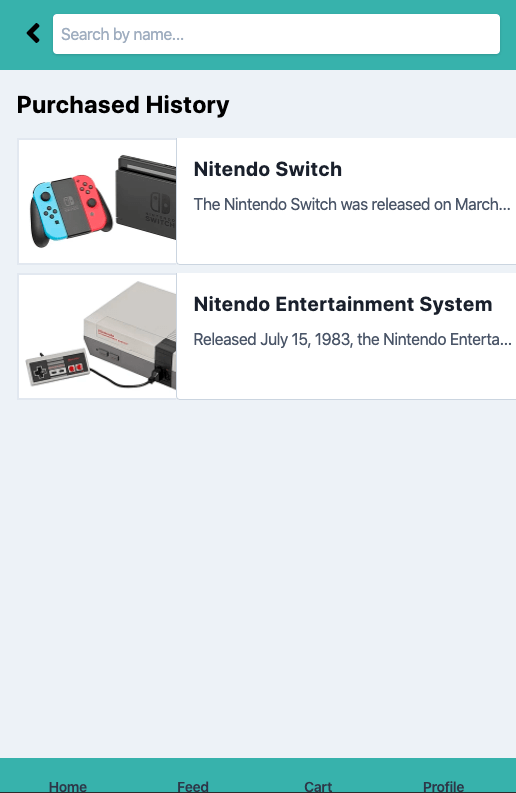
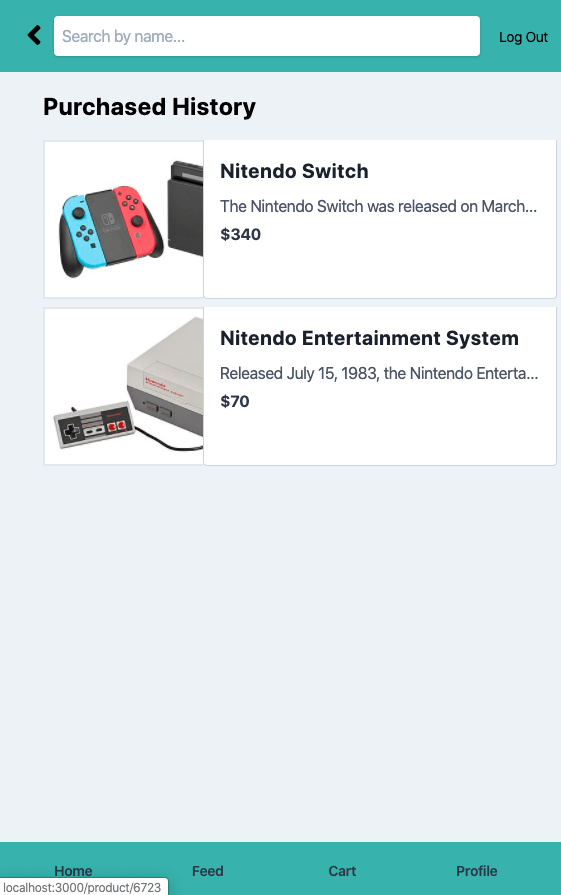
update screenshot

Changed region(s): [[0.0, 0.0, 1.0, 0.5145], [0.0, 0.9382, 1.0, 1.0]]

diff --git a/src/users/pages/Profile.js b/src/users/pages/Profile.js
@@ -4,6 +4,7 @@ import Navbar from "../../shared/components/Navigation/Navbar";
 import { useHttpClient } from '../../shared/hooks/http-hook';
 import FloatingBar from "../../shared/components/Navigation/FloatingBar";
 import CartItem from "../components/CartItem";
+import mockData from "../../shared/util/mockData";
 
 let data = [];
 
@@ -40,16 +41,13 @@ const Profile = () => {
   useEffect(() => {
     const fetchProducts = async () => {
       try {
-        const responseData = await sendRequest(process.env.REACT_APP_API_HOST);
-        const products = await responseData[0]['data'];
-
         let localData = await loadData();
         if (productId) {
           localData = await saveData(productId)
         }
         const idProducts = await localData['list'];
         const setProduct = [...new Set(idProducts)]
-        const searchItems = await products['productPromo'].filter((item) => {
+        const searchItems = await mockData.filter((item) => {
           return setProduct.includes(item.id)
         })
 
